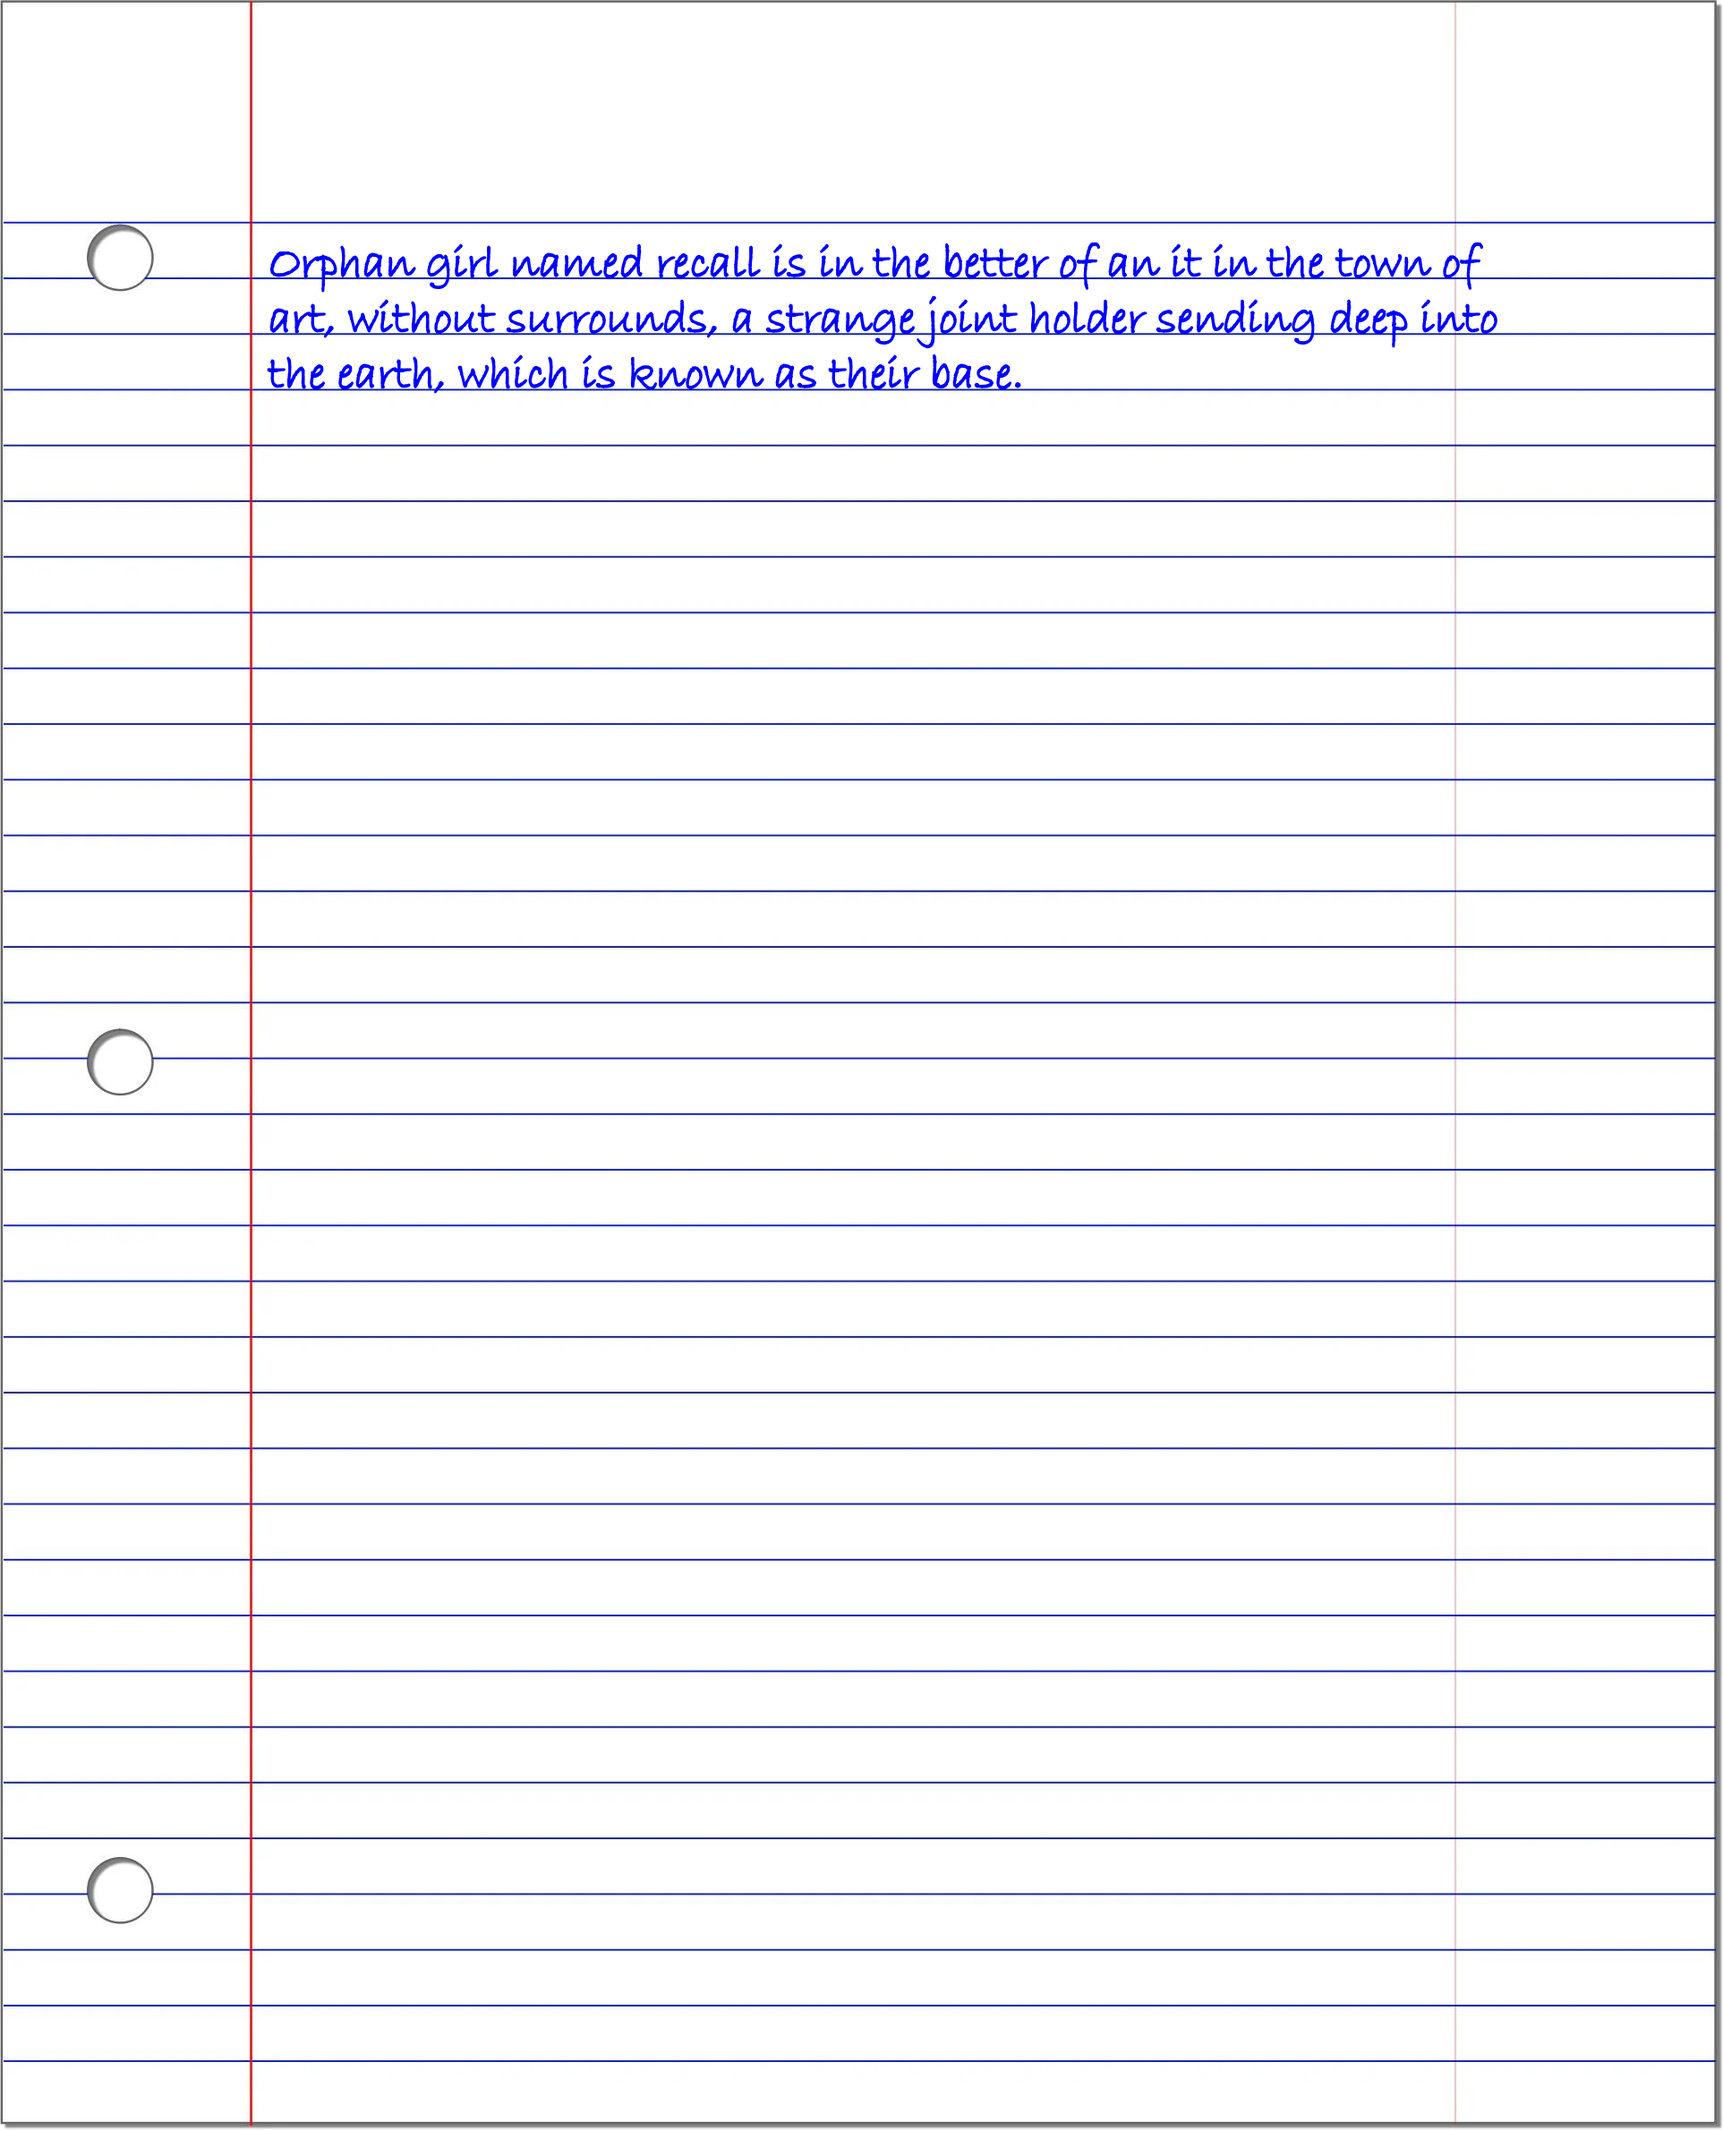
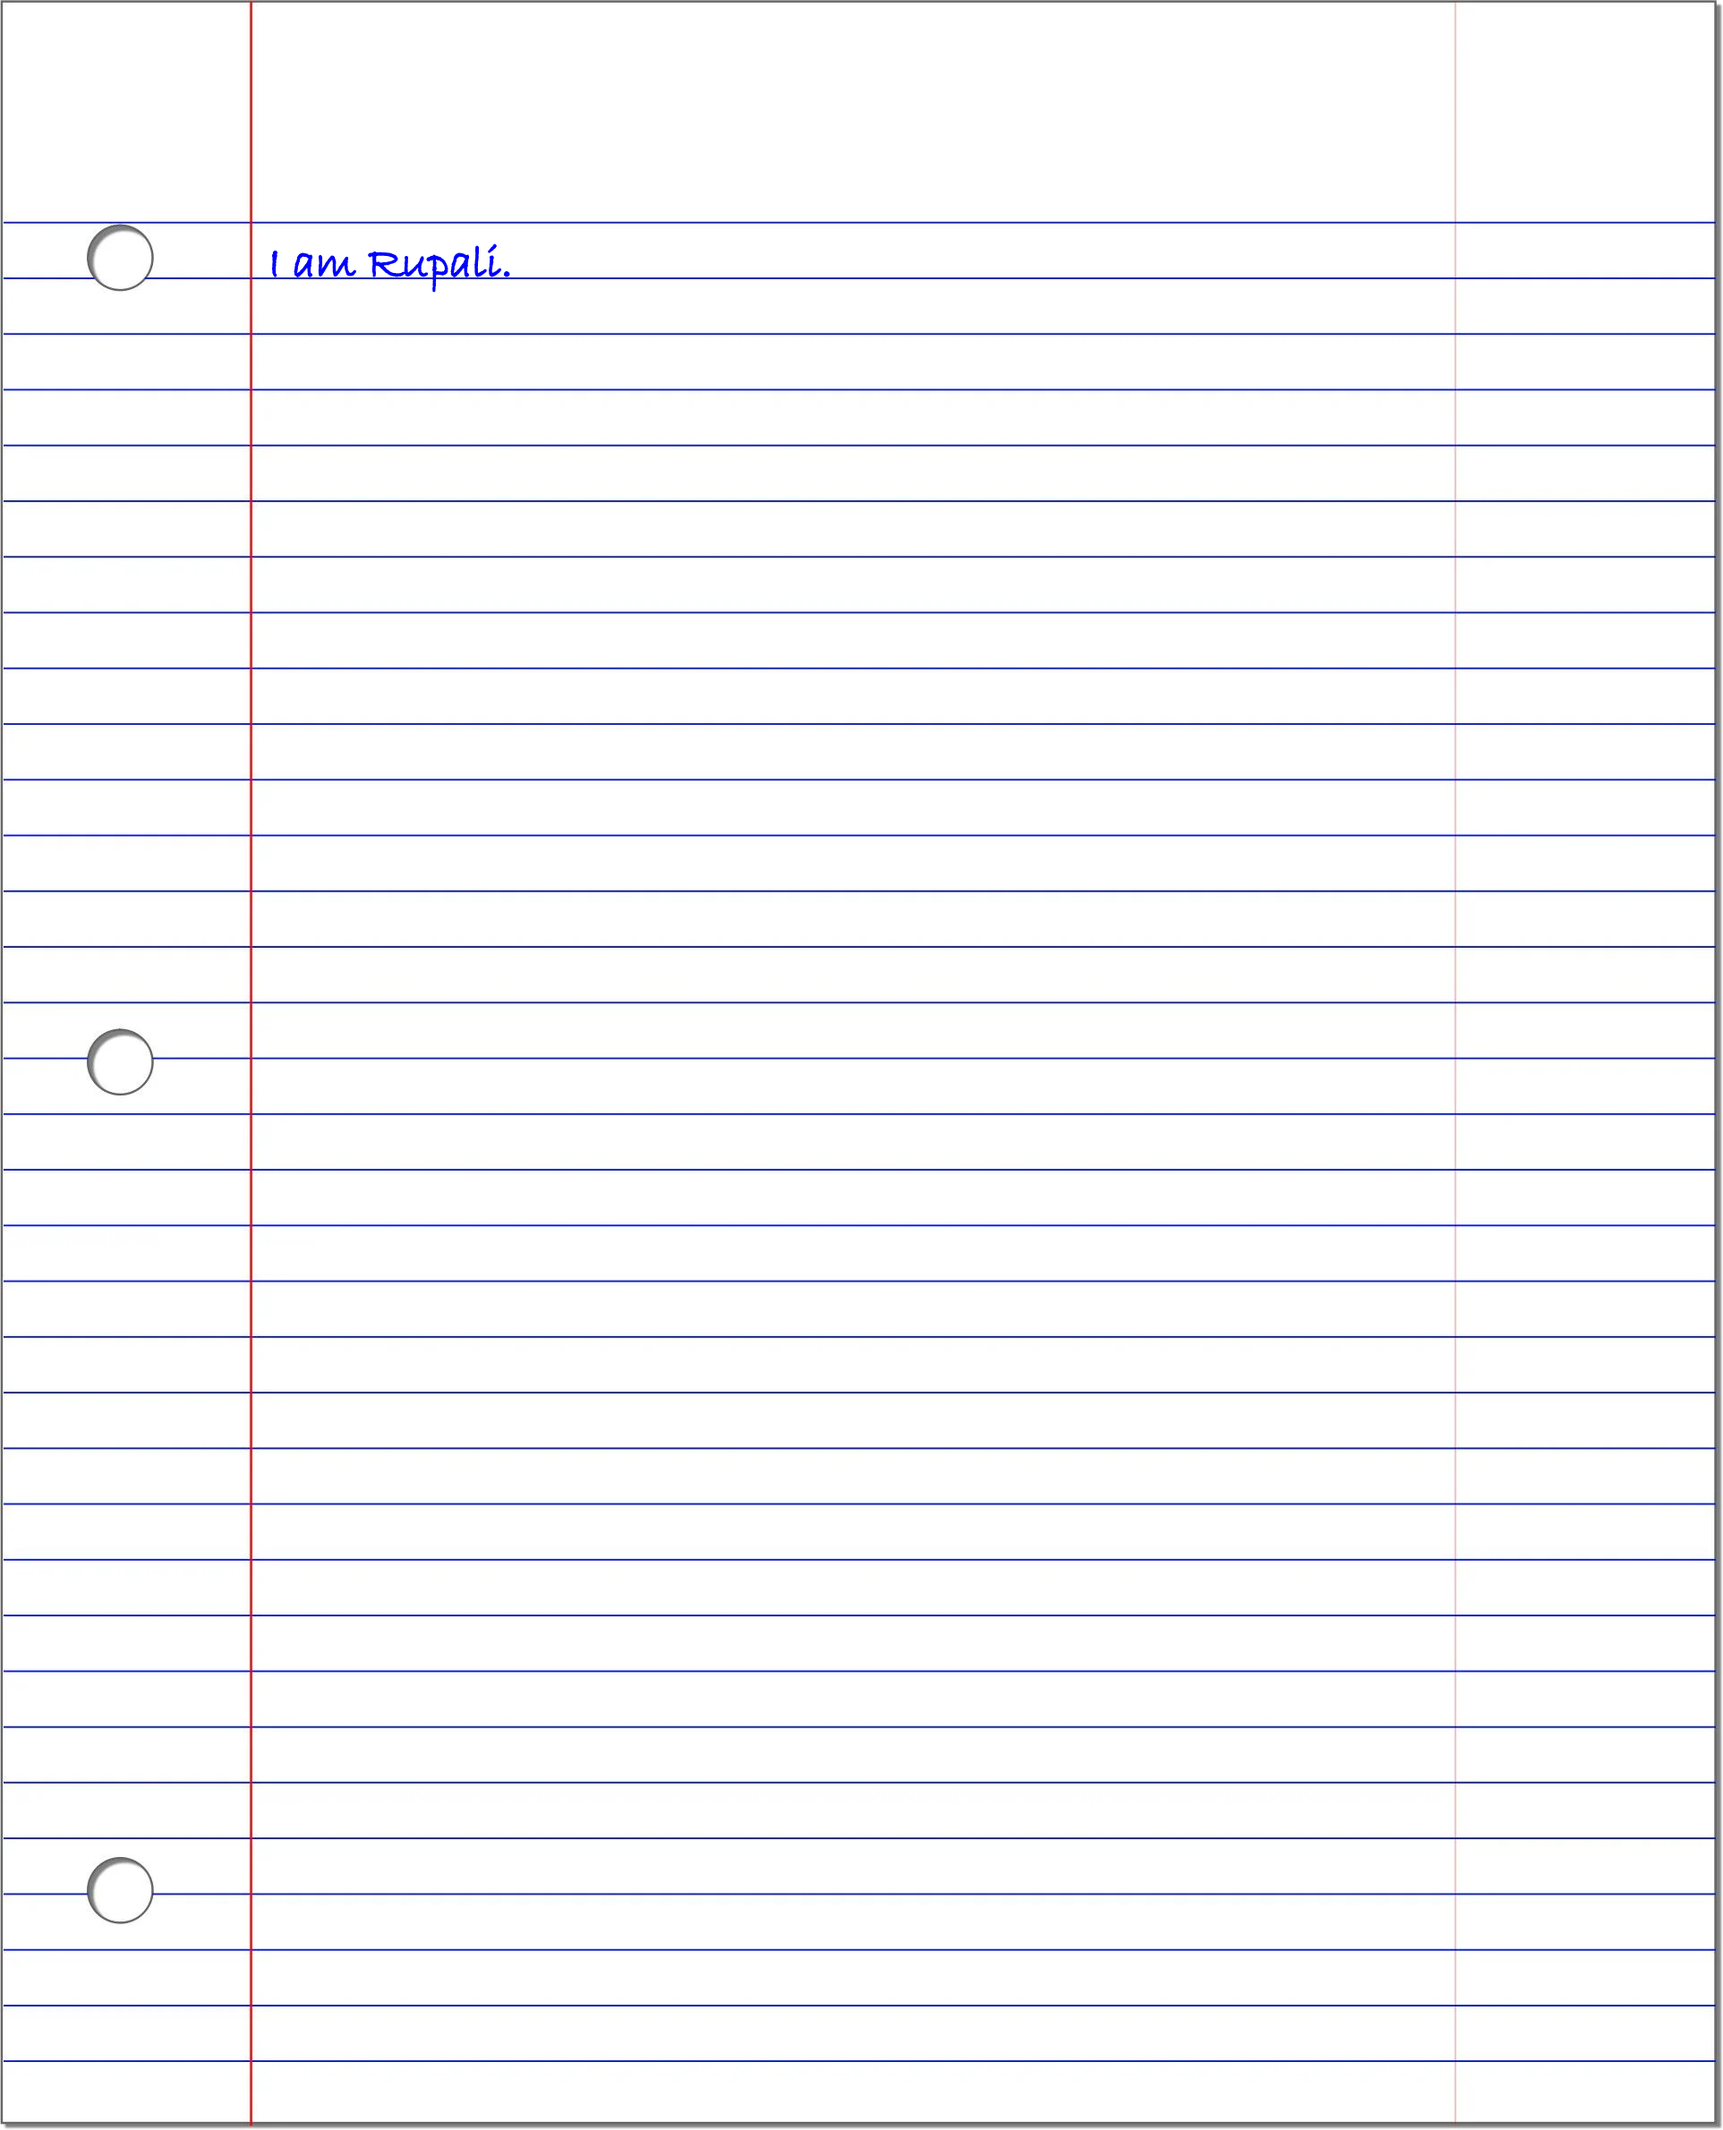
Added text field editor

Changed region(s): [[0.1558, 0.0933, 0.8727, 0.1866]]

diff --git a/templates/index.html b/templates/index.html
@@ -2,15 +2,35 @@
 <html>
 <head>
     <title>Speech to Text</title>
+    <style>
+    textarea {
+        width: 100%;
+        height: 150px;
+        padding: 12px 20px;
+        box-sizing: border-box;
+        border: 2px solid #ccc;
+        border-radius: 4px;
+        background-color: #f8f8f8;
+        font-size: 16px;
+        resize: none;
+      }
+      </style>
 </head>
 <body>
     <h1>Speech to Text</h1>
-    <div id="audio">
+    <div id="audio" style="display:{{ disp }}">
     <p>1 Page contains around 2300 characters thats around 30 lines </p>
     <form action="/upload" method="post" enctype="multipart/form-data">
         <input type="file" name="file" accept=".wav,.mp3">
         <input type="submit" value="Upload">
     </form>
+    </div>
+    <div id="div2" style="display:{{ disp2 }};">
+        <h3>Find below the processed text and hit confirm to convert to hand writing</h3>
+        <form action = "/process" method="post"> 
+            <textarea name="final">{{text}}</textarea>
+            <input type ='submit' value = "Confirm">
+        </form>
     </div>
 </body>
 </html>

diff --git a/Test 2 handwriting.py b/Test 2 handwriting.py
@@ -9,7 +9,7 @@ app = Flask(__name__)
 
 @app.route('/')
 def index():
-    return render_template('index.html')
+    return render_template('index.html',disp="Block",disp2="None")
 
 @app.route('/upload', methods=['POST'])
 def upload():
@@ -43,32 +43,37 @@ def upload():
         pfilter=re.compile('([?!.]\s*)')
         split_text=pfilter.split(ptext)
         text=''.join([i.capitalize() for i in split_text])
-        
-        # Load the font
-        font = ImageFont.truetype('C:\Windows\Fonts\BRADHITC.TTF', size=52)
 
-        # Ruled Page vector final (converted to jpg)
-        image = Image.open(r'C:\Users\arora\Desktop\Coding\Python Flask project main\test\ruled.jpg')
-
+        return render_template('index.html',text=text,disp="none" ,disp2="block")
         
-        draw = ImageDraw.Draw(image)
-        #draw.text((190, 220), text, font=font, fill=(0,0,0,20))
-        #implementing wrap text feature for 1 page
-        lines=textwrap.wrap(text,width=65)
-        y_text = 263
-        for line in lines:
-            width, height = font.getsize(line)
-            draw.text((300,y_text),line,font=font,fill='blue',stroke_fill='blue',stroke_width=1)
-            y_text += 62.4
-            if(y_text>image.size[1]):
-                break
-
-        
-        image.save('static/temp.png')
-        image_path = 'static/temp.png'
-        return render_template('result.html',image_path=image_path)
-    
     return 'Invalid file format'
+
+@app.route('/process',methods=['POST'])
+def process():
+    # Load the font
+    text=request.form['final']
+    font = ImageFont.truetype('C:\Windows\Fonts\BRADHITC.TTF', size=52)
+
+    # Ruled Page vector final (converted to jpg)
+    image = Image.open(r'C:\Users\arora\Desktop\Coding\Python Flask project main\test\ruled.jpg')
+
+    
+    draw = ImageDraw.Draw(image)
+    #draw.text((190, 220), text, font=font, fill=(0,0,0,20))
+    #implementing wrap text feature for 1 page
+    lines=textwrap.wrap(text,width=65)
+    y_text = 263
+    for line in lines:
+        width, height = font.getsize(line)
+        draw.text((300,y_text),line,font=font,fill='blue',stroke_fill='blue',stroke_width=1)
+        y_text += 62.4
+        if(y_text>image.size[1]):
+            break
+
+    
+    image.save('static/temp.png')
+    image_path = 'static/temp.png'
+    return render_template('result.html',image_path=image_path)
 
 def allowed_file(filename):
     return '.' in filename and filename.rsplit('.', 1)[1].lower() in ['wav', 'mp3']
